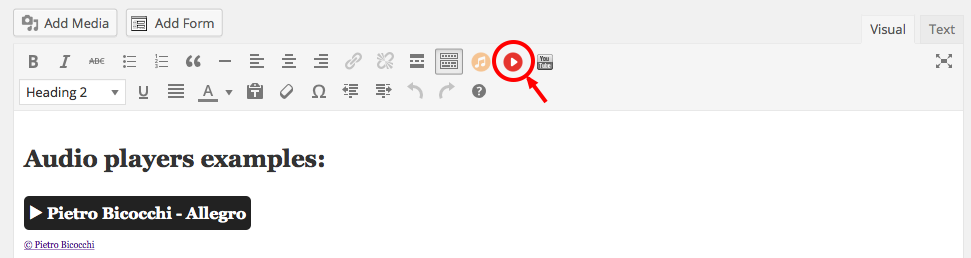
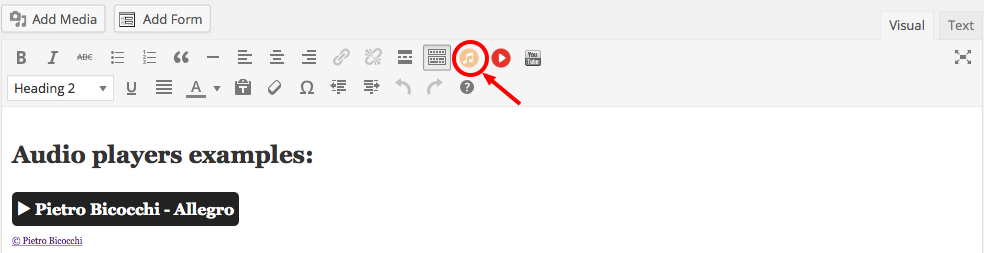
= 1.6.5 = * bugfix: The "Apply to any .mp3 file link" option were not correctly applied.
git-svn-id: https://plugins.svn.wordpress.org/wp-miniaudioplayer/trunk@1120715 b8457f37-d9ea-0310-8a92-e5e31aec5664

diff --git a/wp-miniaudioplayer/js/jquery.mb.miniPlayer.js b/wp-miniaudioplayer/js/jquery.mb.miniPlayer.js
@@ -30,7 +30,6 @@
 
 	var isAndroidDefault = jQuery.browser.android && !(/chrome/i).test(nAgt);
 
-
 	/*******************************************************************************
 	 * jQuery.mb.components: jquery.mb.CSSAnimate
 	 ******************************************************************************/

diff --git a/wp-miniaudioplayer/miniAudioPlayer.php b/wp-miniaudioplayer/miniAudioPlayer.php
@@ -4,11 +4,11 @@ Plugin Name: mb.miniAudioPlayer
 Plugin URI: http://wordpress.org/extend/plugins/wp-miniaudioplayer/
 Description: Transform your mp3 audio file link into a nice, small light player. ! IMPORTANT - if you customized the skin for the previous version you need to regenerate it from <a href="http://pupunzi.com/mb.components/mb.miniAudioPlayer/demo/skinMaker.html" target="_blank">here</a>.
 Author: Pupunzi (Matteo Bicocchi)
-Version: 1.6.4
+Version: 1.6.5
 Author URI: http://pupunzi.com
 */
 
-define("MINIAUDIOPLAYER_VERSION", "1.6.4");
+define("MINIAUDIOPLAYER_VERSION", "1.6.5");
 register_activation_hook( __FILE__, 'miniAudioPlayer_install' );
 
 function miniAudioPlayer_install() {
@@ -115,7 +115,7 @@ if (empty($miniAudioPlayer_download_security)) {$miniAudioPlayer_download_securi
 if (empty($miniAudioPlayer_customizer)) {$miniAudioPlayer_customizer = "false";}
 if (empty($miniAudioPlayer_add_gradient)) {$miniAudioPlayer_add_gradient = "true";}
 if (empty($miniAudioPlayer_custom_skin_name)) {$miniAudioPlayer_custom_skin_name = "mySkin";}
-if (empty($miniAudioPlayer_active_all)) {$miniAudioPlayer_active_all = "true";}
+if (empty($miniAudioPlayer_active_all)) {$miniAudioPlayer_active_all = "false";}
 if (empty($miniAudioPlayer_custom_skin_css)) {$miniAudioPlayer_custom_skin_css = "
 
 /*++++++++++++++++++++++++++++++++++++++++++++++++++
